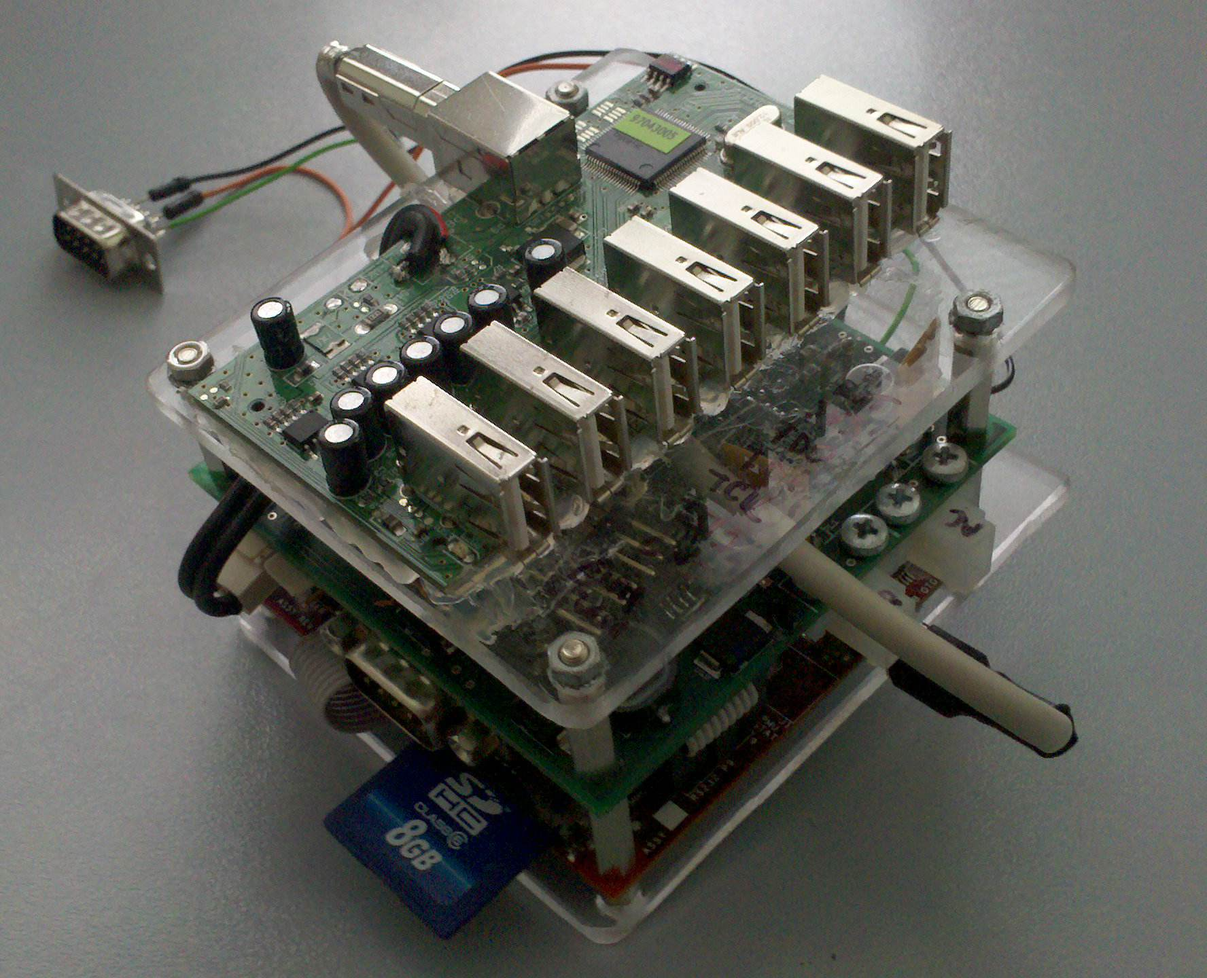
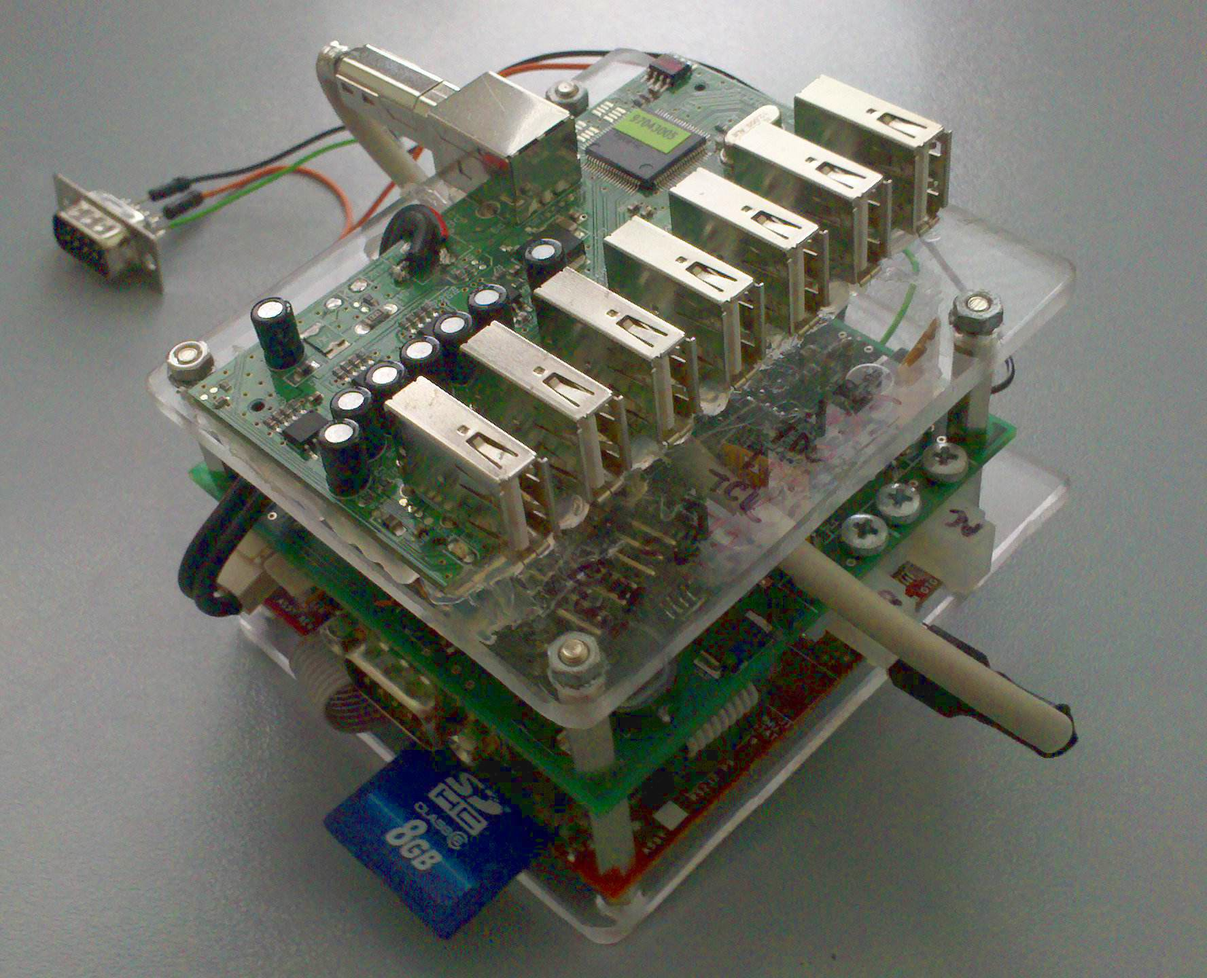
doc: Changes in presentation text, increased lightness and saturation in the photo.

diff --git a/doc/presentation/presentation.tex b/doc/presentation/presentation.tex
@@ -14,9 +14,9 @@
 
 Motivation:
 \begin{itemize}
-\item Robot for Eurobot, etc.
+\item Robot controller for Eurobot, etc.
 \item Need robust platform to handle all tasks
-\item Robust bus for communication among components
+\item Bus for communication among components
 \end{itemize}
 
 We chose:
@@ -29,25 +29,26 @@ We chose:
 \begin{frame}{Beagleboard}
 \begin{columns}[c]
 
-\column{.4\textwidth}
+\column{.45\textwidth}
 :-)
 \begin{itemize}
-\item OMAP3530 - Cortex-A8, 600MHz, 128MB RAM/Flash,
+\item OMAP3530 - Cortex-A8, 600MHz
+\item 128MB RAM/Flash,
 \item 2x SPI bus 
 \item 1x I2C bus 
 \item SD-card slot
 \item USB OTG
-\item HDMI
-\item many others, ...
+\item UART, HDMI, audio, \ldots
 \end{itemize}
 
 :-(
 \begin{itemize}
 \item No RTC
 \item No network connectivity
+\item No CAN
 \end{itemize}
 
-\column{.6\textwidth}
+\column{.55\textwidth}
 \includegraphics[width=\textwidth]{../img/beagleboard}
 
 \end{columns}
@@ -56,12 +57,12 @@ We chose:
 \begin{frame}{Expansion Board}
 \centering{\includegraphics[height=.5\textheight]{../img/system}}
 \begin{itemize}
-\item Expands Beagleboard capabilities 
-\item RTC with battery
-\item 10/100Mbit Ethernet (ENC424J600)
-\item STM32 MCU (Cortex-M3 based) \begin{itemize}
-\item CAN bus
-\item Battery/power management
+	\item Expands Beagleboard capabilities 
+	\item RTC with battery
+	\item 10/100Mbit Ethernet (ENC424J600)
+	\item STM32 MCU (Cortex-M3 based) \begin{itemize}
+	\item CAN bus
+	\item Battery/power management
 \end{itemize}
 \item Exposes more BB peripherals - UART, I2C
 \end{itemize}
@@ -73,41 +74,16 @@ We chose:
 \column{.4\textwidth}
 
 \begin{itemize}
-  \item Ethernet driver
-  \item Firmware for embedded MCU
-  \item Counterpart driver for embedded MCU 
+	\item Firmware for embedded MCU
+	\item Counterpart driver for embedded MCU 
+	\item Ethernet driver
+	\item Minor U-Boot modifications
 \end{itemize}
 
 \column{.6\textwidth}
 \includegraphics[width=\textwidth]{../img/main}
 
 \end{columns}
-\end{frame}
-
-\begin{frame}{Ethernet - ENC424J600}
-\begin{itemize}
-  \item Straightforward implementation
-	\item HW designed explicitly for embedded devices.
-	\item Missing some features (atomic read'n'clear, ...)
-\end{itemize}
-
-\begin{itemize}
-\item Developed on stable 2.6.29 kernel
-\item During writing driver got forked by Indian programmer (and rejected from mainline kernel) :-)
-\end{itemize}
-\end{frame}
-
-\begin{frame}{Ethernet - ENC424J600}
-\begin{itemize}
-	\item Working autonegotiation, 100/10Mbit, full/half duplex, low-power mode
-	\item UDP throughput: ~12Mbit (up+down) 
-	\item TCP throughput: ~2.5Mbit
-\end{itemize}
-
-\begin{itemize}
-  \item Main bottleneck is SPI (14Mbit/s raw)
-	\item Very slight improvement possible by preloading packets into ENCxxx chip
-\end{itemize}
 \end{frame}
 
 \begin{frame}{Embedded MCU - SPI communication}
@@ -117,7 +93,6 @@ Version 1:
 \begin{itemize}
 	\item 1 byte command + dummy byte + data
 	\item dummy byte = time to process command
-	\item Nested interrupts \(\skull\)
 	\item Impossible to synchronize MCU with Beagleboard.
 \end{itemize}
 
@@ -131,7 +106,7 @@ Version 2 - current:
 \begin{frame}{Embedded MCU - CAN}
 \begin{itemize}
 	\item Internal bxCAN hardware (3 message RX fifo, 3 TX mailboxes)
-  \item Implements 16 message buffer, for message bursts 
+	\item Implements 16 message buffer, for message bursts 
 	\item Fully interrupt based.
 \end{itemize}
 
@@ -150,8 +125,8 @@ Version 2 - current:
 		\item System current
 		\item AC Power
 	\end{itemize}
-	\item Uses DMA transfer to offload CPU
-	\item Uses PWM to set charging current
+	\item DMA transfers to offload CPU
+	\item PWM to set charging current
 	\item Provides interrupts on Battery low, AC present
 	\item Glitch-free AC \(\Leftrightarrow\) Battery switch
 \end{itemize}
@@ -167,6 +142,34 @@ Version 2 - current:
 	\item Two interrupts - interrupt and data ack line
 
 	\item CAN is available as network interface (ifconfig can0 up)
+\end{itemize}
+\end{frame}
+
+\begin{frame}{Microchip ENC424J600}
+\begin{itemize}
+	\item Fast Ethernet Controller with integrated MAC and PHY
+	\item Designed specifically for embedded devices
+\end{itemize}
+
+\begin{itemize}
+	\item Missing some features (atomic read'n'clear, ...)
+\end{itemize}
+
+\end{frame}
+
+\begin{frame}{Microchip ENC424J600 -- kernel driver}
+\begin{itemize}
+	\item Straightforward implementation
+	\item Autonegotiation, 100/10Mbit, full/half duplex, low-power mode
+	\item UDP throughput: ~12Mbit
+	\item TCP throughput: ~2.5Mbit
+	\item SPI is performance bottleneck (14Mbit/s raw)
+	\item slight improvement of TX possible (\( < 10\%\))
+\end{itemize}
+
+\begin{itemize}
+	\item Developed on stable 2.6.29 kernel
+	\item During writing driver got forked by Indian programmer (and rejected from mainline) :-)
 \end{itemize}
 \end{frame}
 
@@ -189,8 +192,8 @@ Version 2 - current:
 \end{itemize}
 \end{frame}
 
-\begin{frame}{THE END.}
-\centering{THE END}
+\begin{frame}{THE END}
+\centering{Questions?}
 \end{frame}
 
 \end{document}
